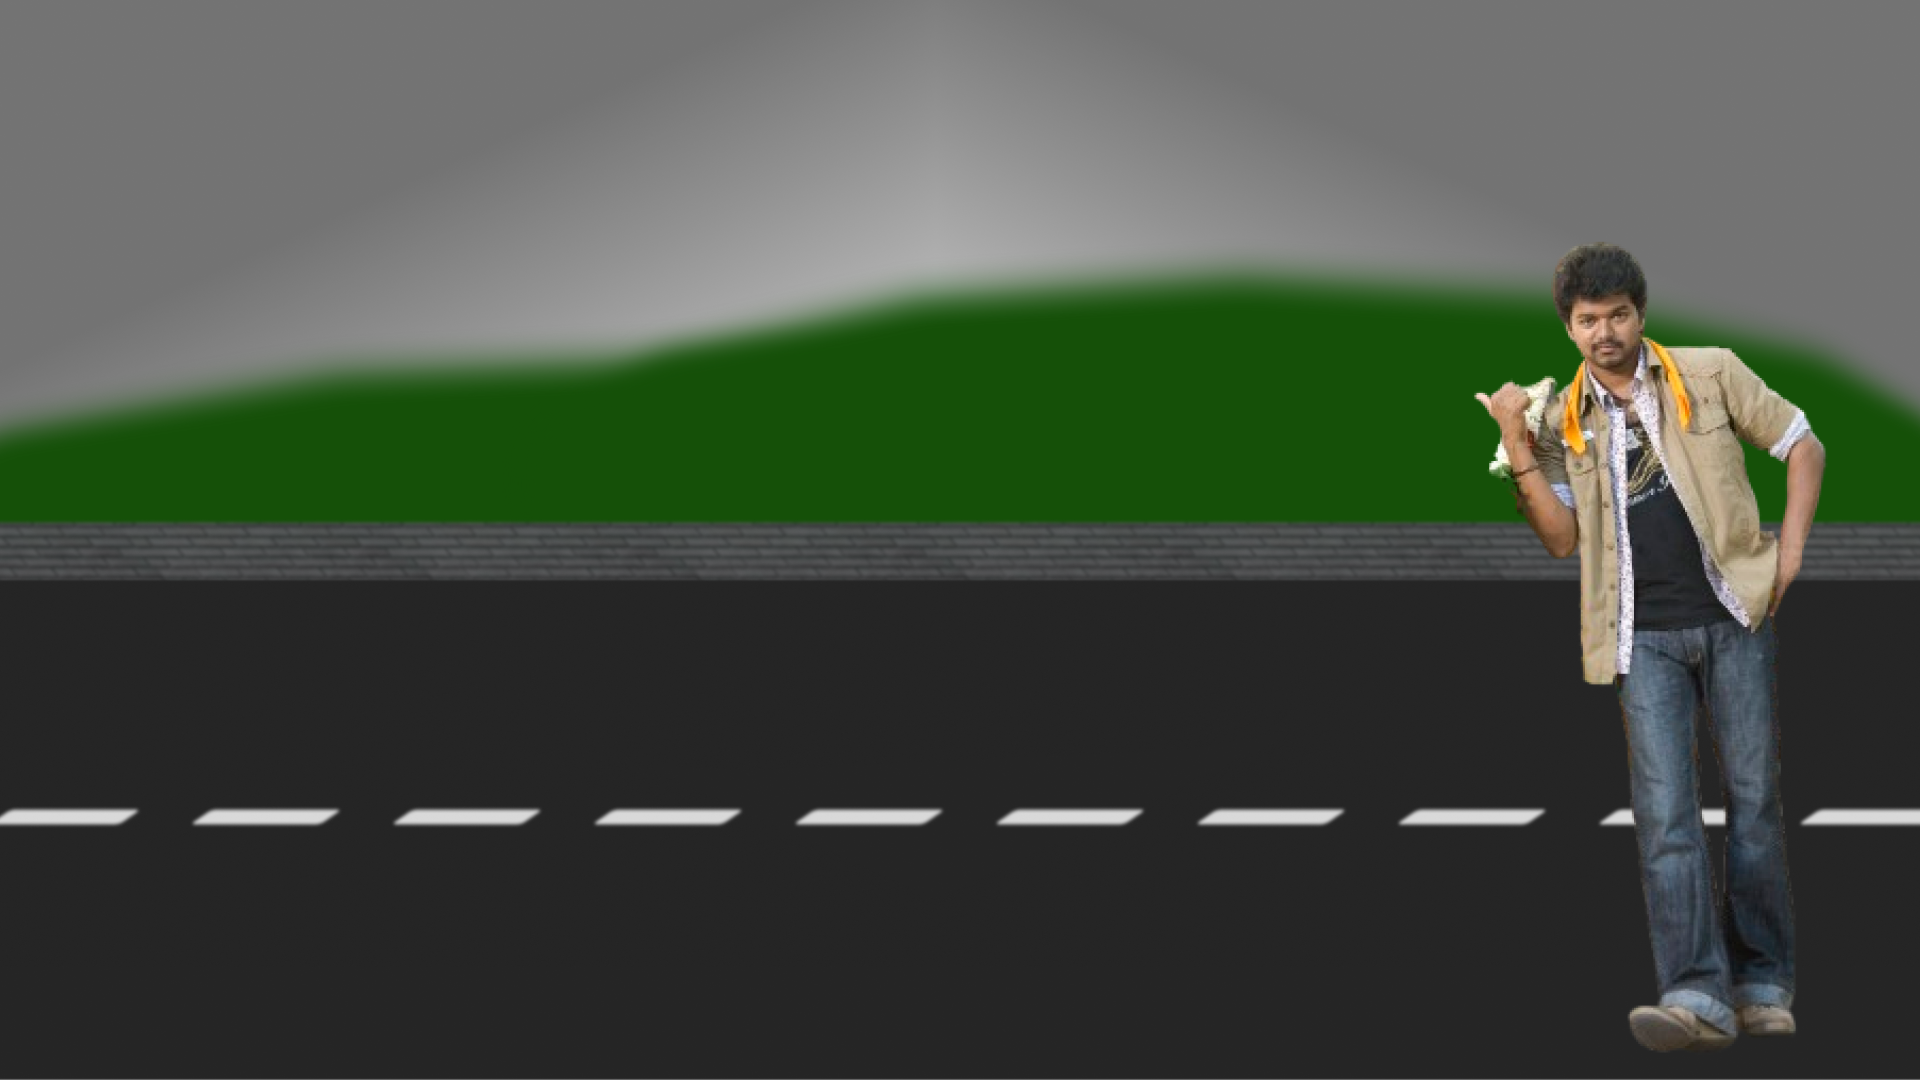
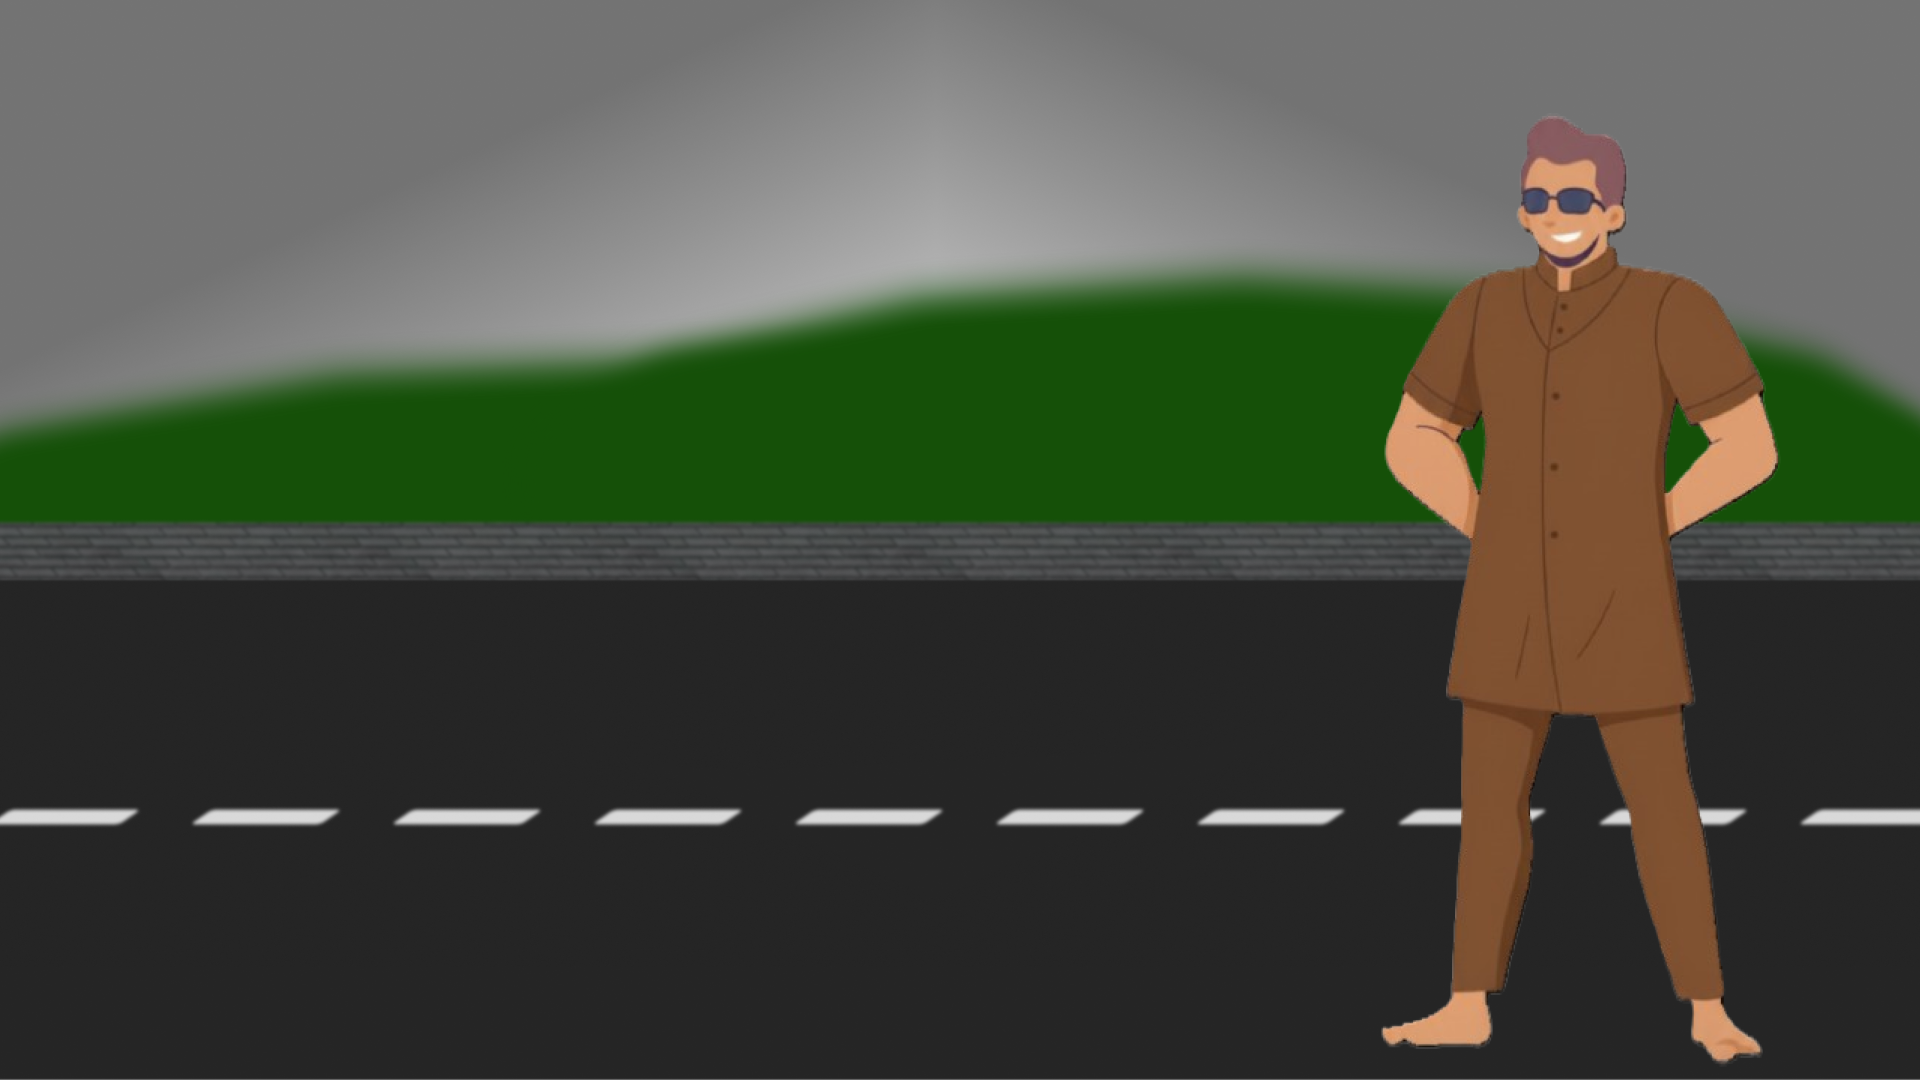
auto anna bhai

Changed region(s): [[0.7188, 0.1222, 0.9688, 0.9778]]

diff --git a/style.css b/style.css
@@ -103,7 +103,7 @@ body.transition-active:after {
 /* --- Start Screen Styles --- */
 #start-screen {
     position: absolute; top: 0; left: 0; width: 100%; height: 100%;
-    background: url('landing_page.jpg') no-repeat center center;
+    background: url('landing_page.png') no-repeat center center;
     background-size: cover;
     z-index: 4000;
     display: flex;
@@ -251,7 +251,7 @@ body.transition-active:after {
     height: 100vh; /* Increased from 90vh to 96vh (96% of screen height) */
     max-width: 800px; /* Increased max width from 400px to 600px */
     max-height: 96vh; /* Match the height */
-    background-image: url('driver.png');
+    background-image: url('gaddilamborgini.png');
     background-size: contain;
     background-repeat: no-repeat;
     background-position: bottom;

diff --git a/index.html b/index.html
@@ -11,7 +11,7 @@
 <body>
   <!-- Start screen -->
   <div id="start-screen">
-    <h1>ChennaiGo</h1>
+    <!-- <h1>ChennaiGo</h1> -->
     <button id="start-button">Start Your Journey</button>
   </div>
 
